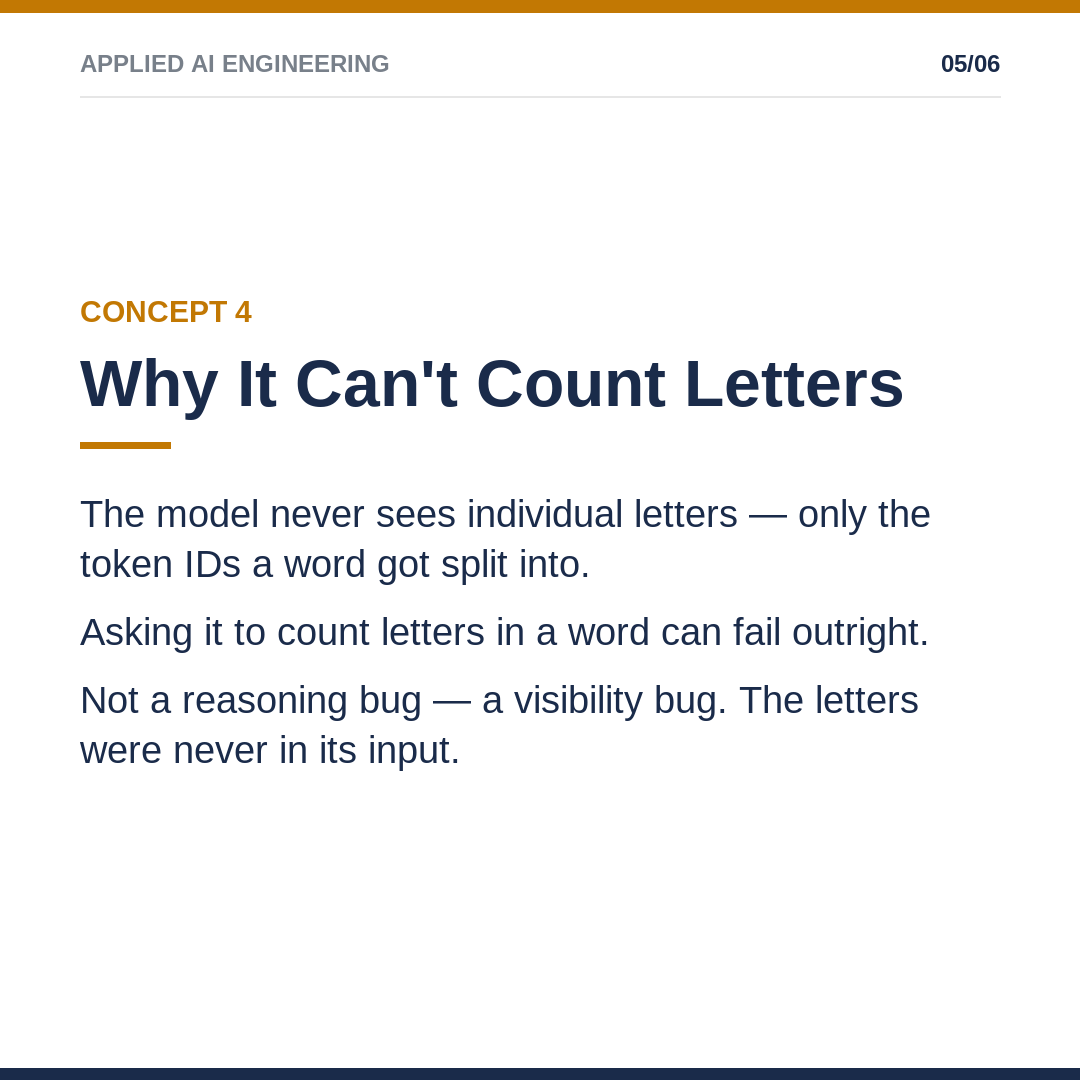
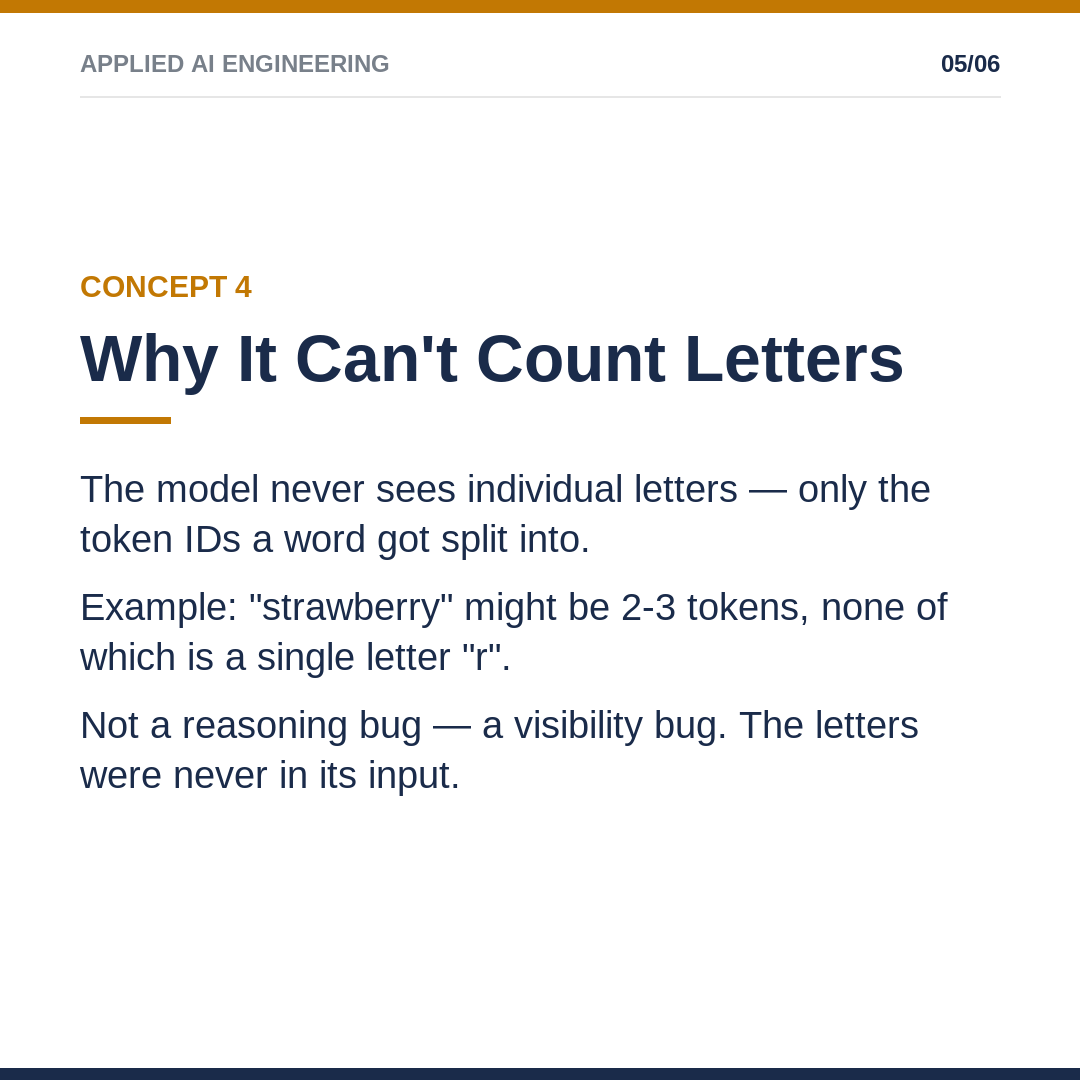
Add bold-term markup and concrete examples across posts 1-5
- carousel_template.py: body_lines now support **bold** spans
  (wrap_rich/draw_rich_line) so a defined term can be set apart from
  its explanation on the same line
- single_image_template.py: footer code now shrinks to fit like the
  carousel template; demo code guarded under __main__
- SKILL.md: two new rules - ground abstract concepts with a real
  example, bold the term being defined (esp. former wiki-table rows
  like Query/Key/Value, Prefill/Decode)
- Applied both to posts 1-5: added worked examples (neuron math,
  "tokenization" -> "token"+"ization", strawberry letter-count,
  attention "it"->"cat" reference) and bolded key terms throughout

Changed region(s): [[0.0611, 0.2444, 0.8861, 0.7333], [0.7333, 0.4278, 0.8556, 0.4889]]

diff --git a/.claude/skills/posts/carousel_template.py b/.claude/skills/posts/carousel_template.py
@@ -28,6 +28,82 @@ def wrap(draw, text, font, max_width):
         lines.append(cur)
     return lines
 
+# --- rich text: supports **bold** spans inside a body line, so a term being
+# defined can be visually set apart from its explanation on the same line. ---
+
+def _parse_bold_chars(text):
+    """text with **markers** -> list of (char, is_bold)."""
+    out, bold, i = [], False, 0
+    while i < len(text):
+        if text[i:i+2] == "**":
+            bold = not bold
+            i += 2
+            continue
+        out.append((text[i], bold))
+        i += 1
+    return out
+
+def _chars_to_words(chars):
+    """list of (char, is_bold) -> list of words, each a list of (char, is_bold).
+    A word can be mixed bold/regular (e.g. "Query:" where only "Query" is bold)."""
+    words, cur = [], []
+    for ch, bold in chars:
+        if ch == " ":
+            if cur:
+                words.append(cur)
+                cur = []
+        else:
+            cur.append((ch, bold))
+    if cur:
+        words.append(cur)
+    return words
+
+def _word_runs(word_chars):
+    """Collapse a word's per-char (char, is_bold) into contiguous (text, is_bold) runs."""
+    runs, cur_text, cur_bold = [], "", word_chars[0][1]
+    for ch, bold in word_chars:
+        if bold == cur_bold:
+            cur_text += ch
+        else:
+            runs.append((cur_text, cur_bold))
+            cur_text, cur_bold = ch, bold
+    runs.append((cur_text, cur_bold))
+    return runs
+
+def _word_width(draw, word_chars, font_reg, font_bold):
+    return sum(
+        draw.textlength(text, font=(font_bold if bold else font_reg))
+        for text, bold in _word_runs(word_chars)
+    )
+
+def wrap_rich(draw, text, font_reg, font_bold, max_width):
+    """Wrap text (with optional **bold** spans) into lines of words for draw_rich_line."""
+    words = _chars_to_words(_parse_bold_chars(text))
+    space_w = draw.textlength(" ", font=font_reg)
+    lines, cur_line, cur_width = [], [], 0
+    for word in words:
+        ww = _word_width(draw, word, font_reg, font_bold)
+        extra = space_w if cur_line else 0
+        if cur_width + extra + ww <= max_width or not cur_line:
+            cur_line.append(word)
+            cur_width += extra + ww
+        else:
+            lines.append(cur_line)
+            cur_line, cur_width = [word], ww
+    if cur_line:
+        lines.append(cur_line)
+    return lines
+
+def draw_rich_line(draw, x, y, line_words, font_reg, font_bold, fill):
+    cx = x
+    space_w = draw.textlength(" ", font=font_reg)
+    for word in line_words:
+        for text, bold in _word_runs(word):
+            f = font_bold if bold else font_reg
+            draw.text((cx, y), text, font=f, fill=fill)
+            cx += draw.textlength(text, font=f)
+        cx += space_w
+
 def slide(filename, slide_no, total, kicker, headline, body_lines, code=None, closing_q=None, series="APPLIED AI ENGINEERING"):
     img = Image.new("RGB", (W, H), WHITE)
     d = ImageDraw.Draw(img)
@@ -49,10 +125,11 @@ def slide(filename, slide_no, total, kicker, headline, body_lines, code=None, cl
     f_kick = ImageFont.truetype(FONT_BOLD, 30)
     f_head = ImageFont.truetype(FONT_BOLD, 66)
     f_body = ImageFont.truetype(FONT_REG, 38)
+    f_body_bold = ImageFont.truetype(FONT_BOLD, 38)
     f_q = ImageFont.truetype(FONT_BOLD, 32)
 
     head_lines = wrap(d, headline, f_head, W - 2*margin)
-    body_wrapped = [wrap(d, line, f_body, W - 2*margin) for line in body_lines]
+    body_wrapped = [wrap_rich(d, line, f_body, f_body_bold, W - 2*margin) for line in body_lines]
 
     # measure total content block height so short slides don't float in a sea of white space
     content_h = 0
@@ -89,7 +166,7 @@ def slide(filename, slide_no, total, kicker, headline, body_lines, code=None, cl
 
     for wrapped in body_wrapped:
         for line in wrapped:
-            d.text((margin, y), line, font=f_body, fill=NAVY)
+            draw_rich_line(d, margin, y, line, f_body, f_body_bold, NAVY)
             y += 50
         y += 18
 

diff --git a/.claude/skills/posts/single_image_template.py b/.claude/skills/posts/single_image_template.py
@@ -74,22 +74,30 @@ def single_image(filename, kicker, headline, items, footer, series="APPLIED AI E
     d.rectangle([margin, code_y, W-margin, code_y+code_h], fill=CODE_BG)
     for i, cx in enumerate([margin+22, margin+42, margin+62]):
         d.ellipse([cx-6, code_y+14, cx+6, code_y+26], fill=(90,98,110))
-    f_mono = ImageFont.truetype(FONT_MONO, 24)
-    d.text((margin+22, code_y+40), footer, font=f_mono, fill=CODE_TEXT)
+    # shrink font until the footer line fits on one row inside the block
+    code_max_width = W - 2*margin - 44
+    mono_size = 24
+    f_mono = ImageFont.truetype(FONT_MONO, mono_size)
+    while mono_size > 14 and d.textlength(footer, font=f_mono) > code_max_width:
+        mono_size -= 2
+        f_mono = ImageFont.truetype(FONT_MONO, mono_size)
+    d.text((margin+22, code_y+40 - mono_size//2 + 8), footer, font=f_mono, fill=CODE_TEXT)
 
     d.rectangle([0, H-12, W, H], fill=NAVY)
     img.save(filename)
 
-single_image(
-    "single_v1.png",
-    "Teaching Series",
-    "LangChain Message Types",
-    [
-        ("HumanMessage", "What the user says"),
-        ("AIMessage", "What the model replies"),
-        ("SystemMessage", "Sets behavior and rules"),
-        ("ToolMessage", "Result after a tool call"),
-    ],
-    "from langchain_core.messages import *"
-)
-print("done")
+if __name__ == "__main__":
+    # demo/self-test only — does not run on import
+    single_image(
+        "single_v1.png",
+        "Teaching Series",
+        "LangChain Message Types",
+        [
+            ("HumanMessage", "What the user says"),
+            ("AIMessage", "What the model replies"),
+            ("SystemMessage", "Sets behavior and rules"),
+            ("ToolMessage", "Result after a tool call"),
+        ],
+        "from langchain_core.messages import *"
+    )
+    print("done")

diff --git a/.claude/skills/posts/SKILL.md b/.claude/skills/posts/SKILL.md
@@ -26,6 +26,20 @@ Short sentences, no filler, no hype words. But every line has to stand on its ow
 ✗ "Weights: billions of frozen numbers, set once during training." — a label-fragment, not a sentence; reads as a flashcard, not teaching.
 ✗ "AI is transforming how we build apps!" — short but empty, this is hype, not teaching.
 
+## Ground Abstract Concepts With A Real Example
+
+An abstract mechanism (tokenization, an attention head, a decode step) reads as pure theory until it's tied to a concrete instance — a real word, a real number, a real snippet. Wherever a concept is genuinely abstract (not already concrete, like a code import), work in a short, real example rather than leaving the definition to stand alone. Pull the example from the source wiki page when it has one; invent a small, obviously-correct one (a real word split into real subword pieces, a real number plugged into a real formula) when it doesn't — never a vague placeholder like "some word" or "a sentence."
+
+✓ "A tokenizer splits words into pieces. Example: **\"tokenization\"** splits into **\"token\"** + **\"ization\"**." — the example makes the mechanism concrete instead of asserted.
+✗ "A tokenizer splits words into subword pieces based on frequency." — technically correct, but a first-time reader has nothing to picture.
+
+## Bold The Term Being Defined
+
+When a line defines or names something ("X is Y," "X: Y," a term-then-explanation pattern — including anything that started life as a wiki table row, e.g. Query/Key/Value or Prefill/Decode), wrap the term itself in `**double asterisks**` in `body_lines` so it renders bold against the regular-weight explanation. `carousel_template.py`'s `slide()` and `draw_rich_line()` parse `**bold**` spans inline (mixing bold and regular text on the same wrapped line); `single_image_template.py`'s `items` list already bolds each row's `name` automatically — no markup needed there. Don't bold whole sentences or every noun — only the specific term a reader should be able to scan for.
+
+✓ "**Query** is what a token looks for. **Key** is what it offers others." — a reader scanning the slide can immediately find each term.
+✗ "Query is what a token looks for. Key is what it offers others." — same content, but nothing helps the eye separate the terms from the prose.
+
 ## Mode: Teaching-First (default, always)
 
 Teach the concept plainly first — imports, syntax, how it fits, what it's for. Real lab/capstone/production experience is an **optional bonus**, added after the teaching only when a real moment exists (a bug, a ratio, an issue). Never invent or force one.
